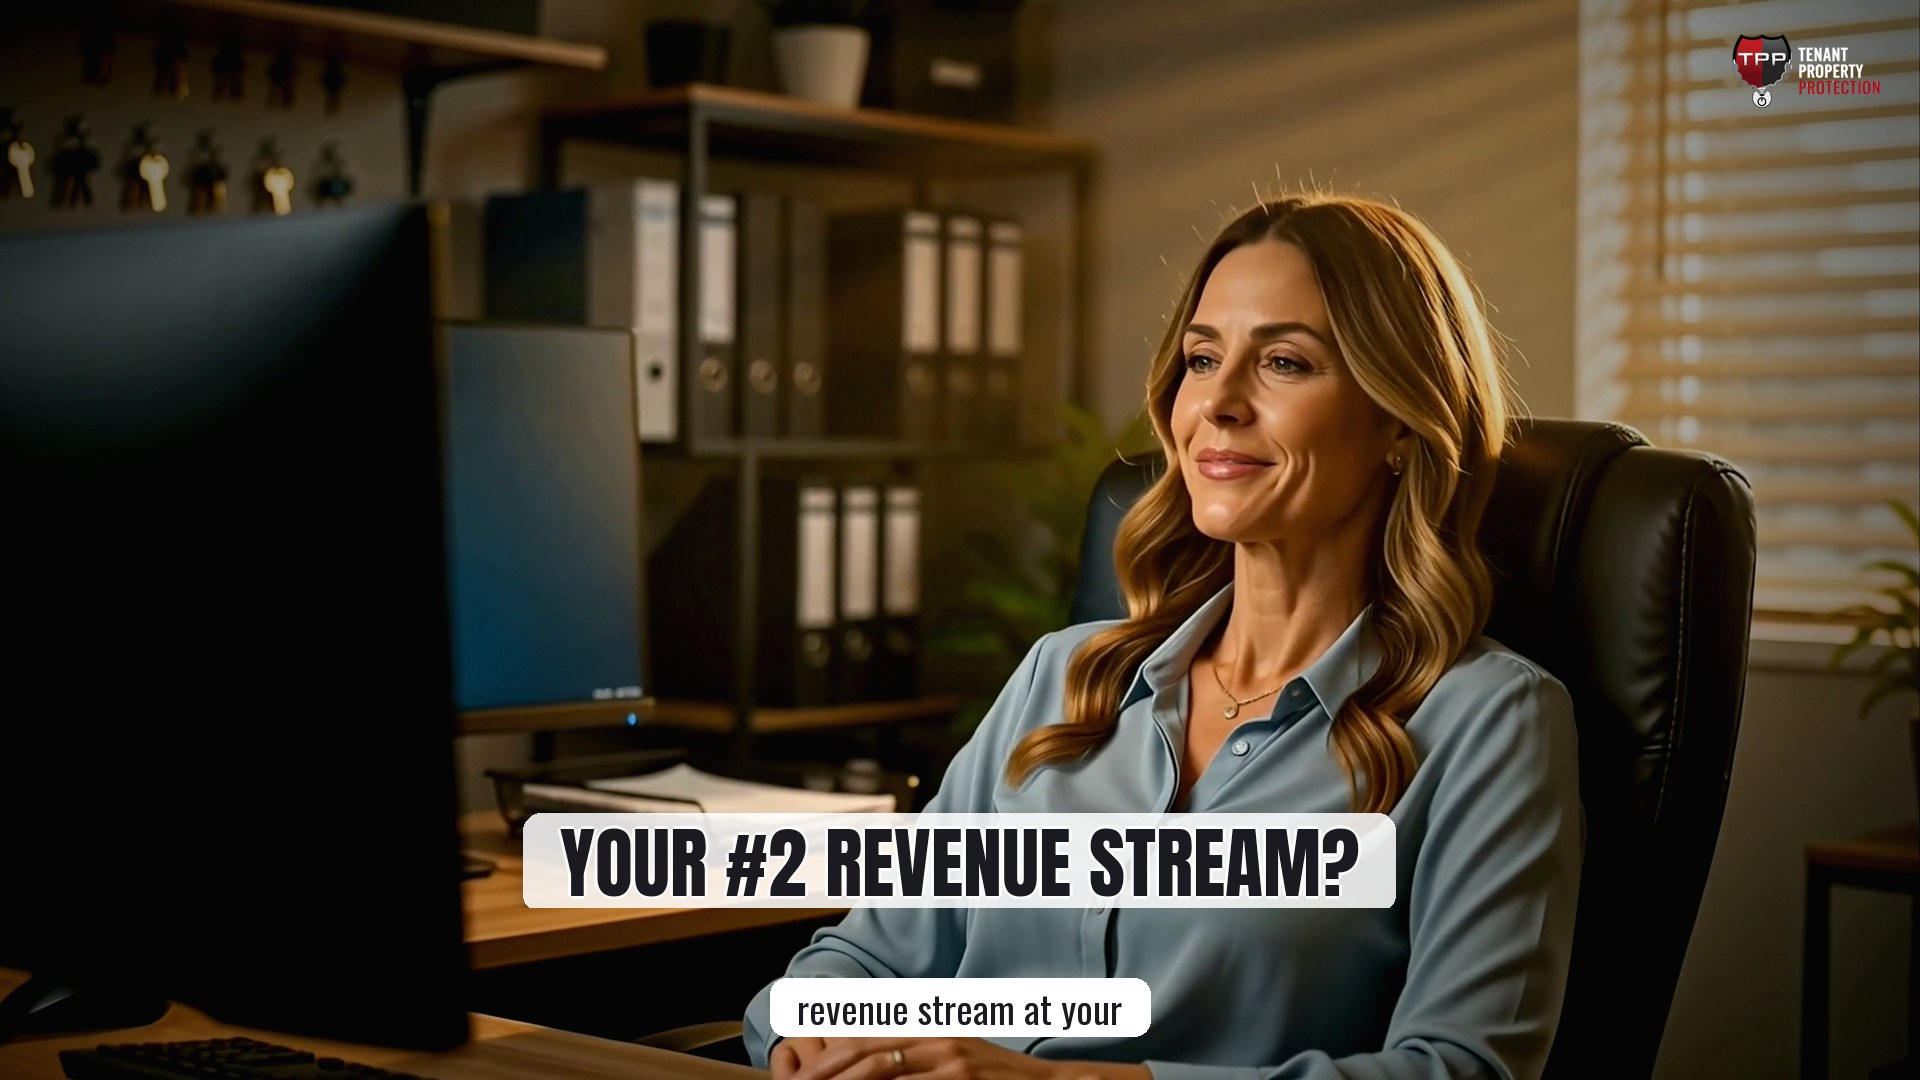
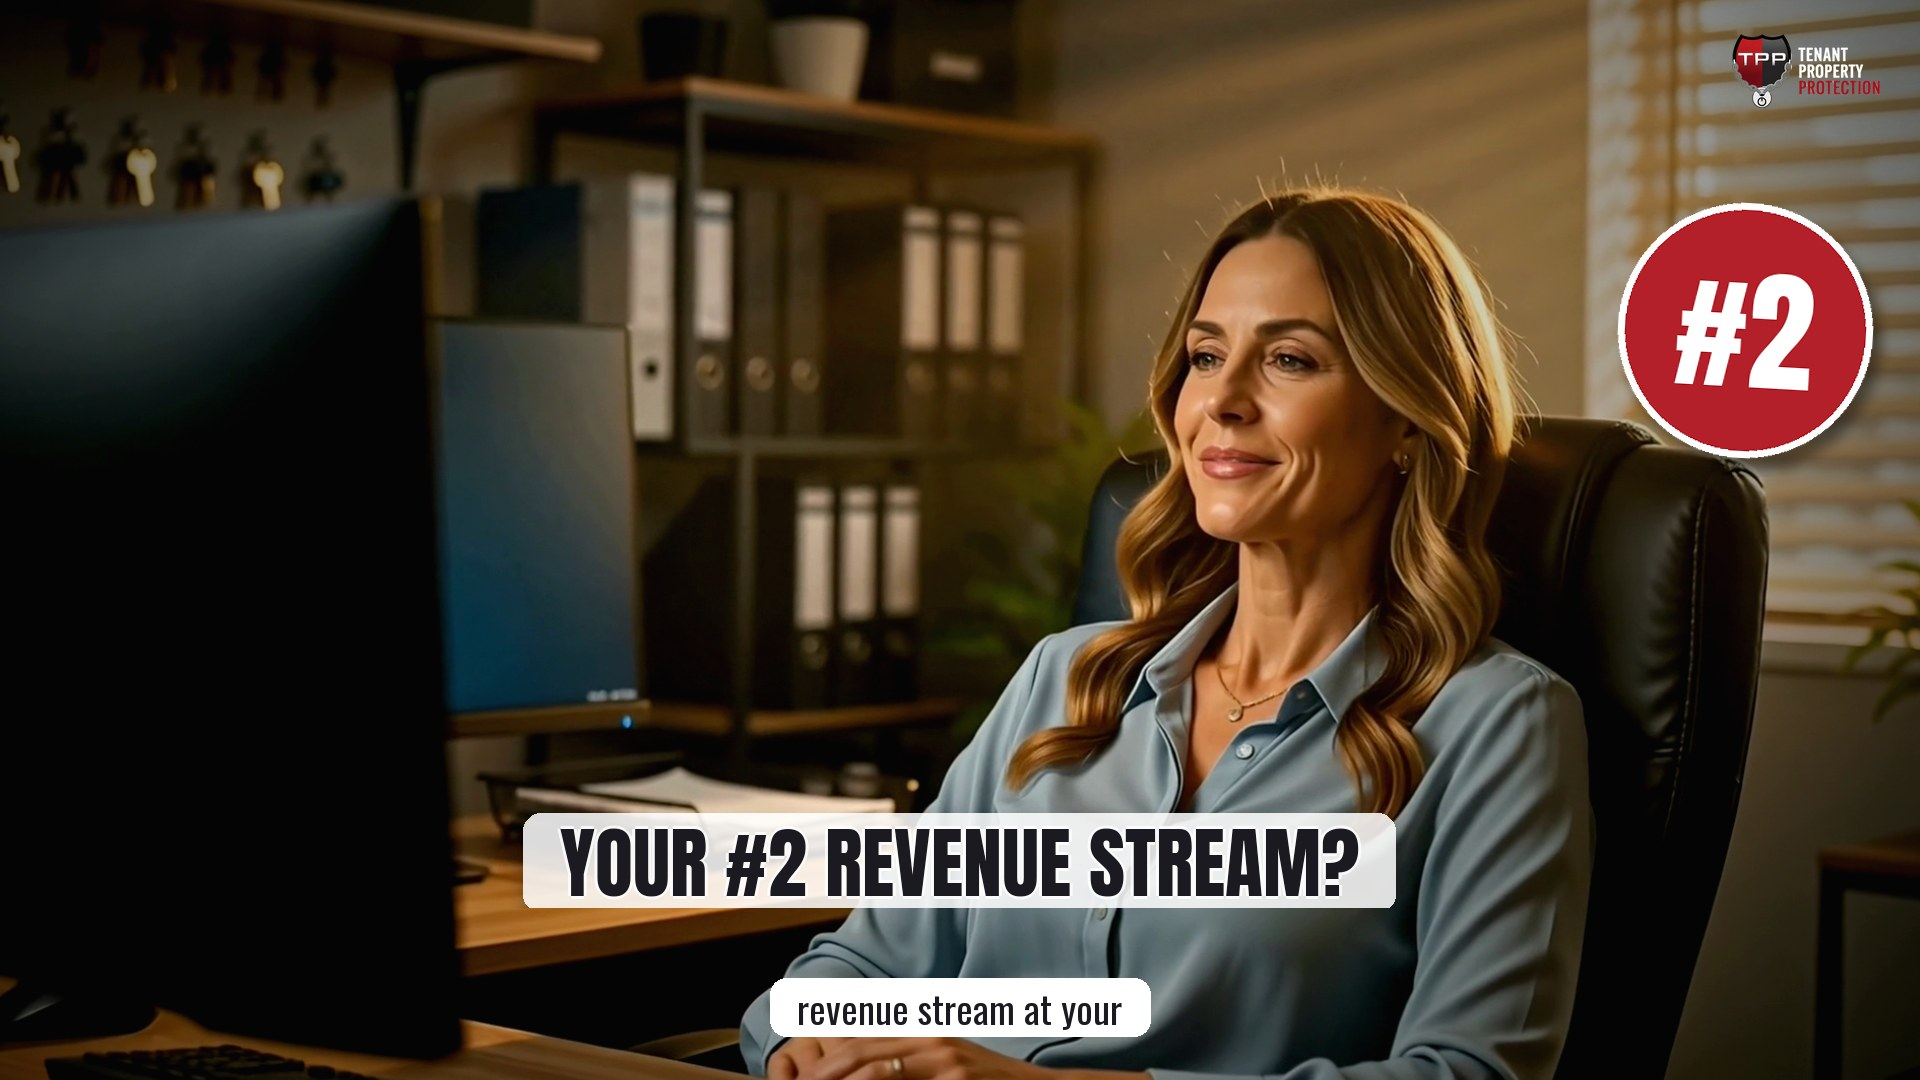
Pages: two spots (stack, revenue)

diff --git a/index.html b/index.html
@@ -25,18 +25,18 @@ main{max-width:1180px;margin:0 auto;padding:28px 16px}
 footer{text-align:center;color:var(--mut);font-size:13px;padding:30px}
 </style></head>
 <body><header><img src="https://teond1090.github.io/tpp-secure-media-videos-2.0/media/logo.png" alt="TPP Secure"><p>Protect your tenants. Grow your revenue. One partner, the whole TPP stack.</p></header>
-<main><h1>TPP Secure Media Videos 2.0</h1><p class='meta'>Three 16:9 HD spots (under 60 seconds, 1920×1080 MP4 H.264) for the General Session screens, YouTube, LinkedIn and Facebook, each with its own share link that unfurls with a thumbnail.</p><div class='grid'><div class="card">
+<main><h1>TPP Secure Media Videos 2.0</h1><p class='meta'>16:9 HD spots (under 60 seconds, 1920×1080 MP4 H.264) for the General Session screens, YouTube, LinkedIn and Facebook, each with its own share link that unfurls with a thumbnail.</p><div class='grid'><div class="card">
 <div class="vwrap" style="background:#000 url('https://teond1090.github.io/tpp-secure-media-videos-2.0/media/stack.jpg') center/cover no-repeat"><video controls playsinline preload="none" poster="https://teond1090.github.io/tpp-secure-media-videos-2.0/media/stack.jpg" src="https://teond1090.github.io/tpp-secure-media-videos-2.0/media/stack.mp4"></video></div>
-<div class="body"><h2>The Whole Stack</h2><div class="meta">55 s &middot; 16:9 HD (1920×1080, MP4 H.264), light version, for event screens, YouTube, LinkedIn and Facebook</div>
+<div class="body"><h2>The Whole Stack</h2><div class="meta">57 s &middot; 16:9 HD (1920×1080, MP4 H.264), light version, for event screens, YouTube, LinkedIn and Facebook</div>
 <a class="btn" href="https://teond1090.github.io/tpp-secure-media-videos-2.0/media/stack.mp4" download>Download 16:9 HD (1920×1080)</a><a class="btn alt" href="https://teond1090.github.io/tpp-secure-media-videos-2.0/stack/">Share link</a>
 <div class="cap"><b>Suggested post</b>
 One partner. The whole stack.
 
-TPP Secure protects what your tenants store, and the rest of the TPP stack covers everything else on your property: RV Park &#x27;N&#x27; Protect, Mobile Container, Flex Space, and a Business Owner Policy with Excess General Liability. Protect your tenants. Grow your revenue. #TPPSecure #SelfStorage #TenantProtection</div>
+TPP Secure protects what your tenants store, and the rest of the TPP stack covers everything else on your property: RV Park &#x27;N&#x27; Protect, Portable Container, Flex Space, and a Business Owner Policy with Excess General Liability. Protect your tenants. Grow your revenue. #TPPSecure #SelfStorage #TenantProtection</div>
 
 </div></div><div class="card">
 <div class="vwrap" style="background:#000 url('https://teond1090.github.io/tpp-secure-media-videos-2.0/media/revenue.jpg') center/cover no-repeat"><video controls playsinline preload="none" poster="https://teond1090.github.io/tpp-secure-media-videos-2.0/media/revenue.jpg" src="https://teond1090.github.io/tpp-secure-media-videos-2.0/media/revenue.mp4"></video></div>
-<div class="body"><h2>Your #2 Revenue Stream</h2><div class="meta">57 s &middot; 16:9 HD (1920×1080, MP4 H.264), light version, for event screens, YouTube, LinkedIn and Facebook</div>
+<div class="body"><h2>Your #2 Revenue Stream</h2><div class="meta">59 s &middot; 16:9 HD (1920×1080, MP4 H.264), light version, for event screens, YouTube, LinkedIn and Facebook</div>
 <a class="btn" href="https://teond1090.github.io/tpp-secure-media-videos-2.0/media/revenue.mp4" download>Download 16:9 HD (1920×1080)</a><a class="btn alt" href="https://teond1090.github.io/tpp-secure-media-videos-2.0/revenue/">Share link</a>
 <div class="cap"><b>Suggested post</b>
 Your #2 revenue stream might already be sitting in your lease.

diff --git a/stack/index.html b/stack/index.html
@@ -32,12 +32,12 @@ footer{text-align:center;color:var(--mut);font-size:13px;padding:30px}
 <body><header><img src="https://teond1090.github.io/tpp-secure-media-videos-2.0/media/logo.png" alt="TPP Secure"><p>Protect your tenants. Grow your revenue. One partner, the whole TPP stack.</p></header>
 <main><div class="card single">
 <div class="vwrap" style="background:#000 url('https://teond1090.github.io/tpp-secure-media-videos-2.0/media/stack.jpg') center/cover no-repeat"><video controls playsinline preload="auto" poster="https://teond1090.github.io/tpp-secure-media-videos-2.0/media/stack.jpg" src="https://teond1090.github.io/tpp-secure-media-videos-2.0/media/stack.mp4"></video></div>
-<div class="body"><h2>The Whole Stack</h2><div class="meta">55 s &middot; 16:9 HD (1920×1080, MP4 H.264), light version, for event screens, YouTube, LinkedIn and Facebook</div>
+<div class="body"><h2>The Whole Stack</h2><div class="meta">57 s &middot; 16:9 HD (1920×1080, MP4 H.264), light version, for event screens, YouTube, LinkedIn and Facebook</div>
 <a class="btn" href="https://teond1090.github.io/tpp-secure-media-videos-2.0/media/stack.mp4" download>Download 16:9 HD (1920×1080)</a>
 <div class="cap"><b>Suggested post</b>
 One partner. The whole stack.
 
-TPP Secure protects what your tenants store, and the rest of the TPP stack covers everything else on your property: RV Park &#x27;N&#x27; Protect, Mobile Container, Flex Space, and a Business Owner Policy with Excess General Liability. Protect your tenants. Grow your revenue. #TPPSecure #SelfStorage #TenantProtection</div>
+TPP Secure protects what your tenants store, and the rest of the TPP stack covers everything else on your property: RV Park &#x27;N&#x27; Protect, Portable Container, Flex Space, and a Business Owner Policy with Excess General Liability. Protect your tenants. Grow your revenue. #TPPSecure #SelfStorage #TenantProtection</div>
 
 </div></div></main><footer>TPP Secure &middot; <a href="https://tenantpropertyprotection.com/">tenantpropertyprotection.com</a> &middot; Booth #527 · 877-575-7774</footer>
 <script>

diff --git a/revenue/index.html b/revenue/index.html
@@ -32,7 +32,7 @@ footer{text-align:center;color:var(--mut);font-size:13px;padding:30px}
 <body><header><img src="https://teond1090.github.io/tpp-secure-media-videos-2.0/media/logo.png" alt="TPP Secure"><p>Protect your tenants. Grow your revenue. One partner, the whole TPP stack.</p></header>
 <main><div class="card single">
 <div class="vwrap" style="background:#000 url('https://teond1090.github.io/tpp-secure-media-videos-2.0/media/revenue.jpg') center/cover no-repeat"><video controls playsinline preload="auto" poster="https://teond1090.github.io/tpp-secure-media-videos-2.0/media/revenue.jpg" src="https://teond1090.github.io/tpp-secure-media-videos-2.0/media/revenue.mp4"></video></div>
-<div class="body"><h2>Your #2 Revenue Stream</h2><div class="meta">57 s &middot; 16:9 HD (1920×1080, MP4 H.264), light version, for event screens, YouTube, LinkedIn and Facebook</div>
+<div class="body"><h2>Your #2 Revenue Stream</h2><div class="meta">59 s &middot; 16:9 HD (1920×1080, MP4 H.264), light version, for event screens, YouTube, LinkedIn and Facebook</div>
 <a class="btn" href="https://teond1090.github.io/tpp-secure-media-videos-2.0/media/revenue.mp4" download>Download 16:9 HD (1920×1080)</a>
 <div class="cap"><b>Suggested post</b>
 Your #2 revenue stream might already be sitting in your lease.
